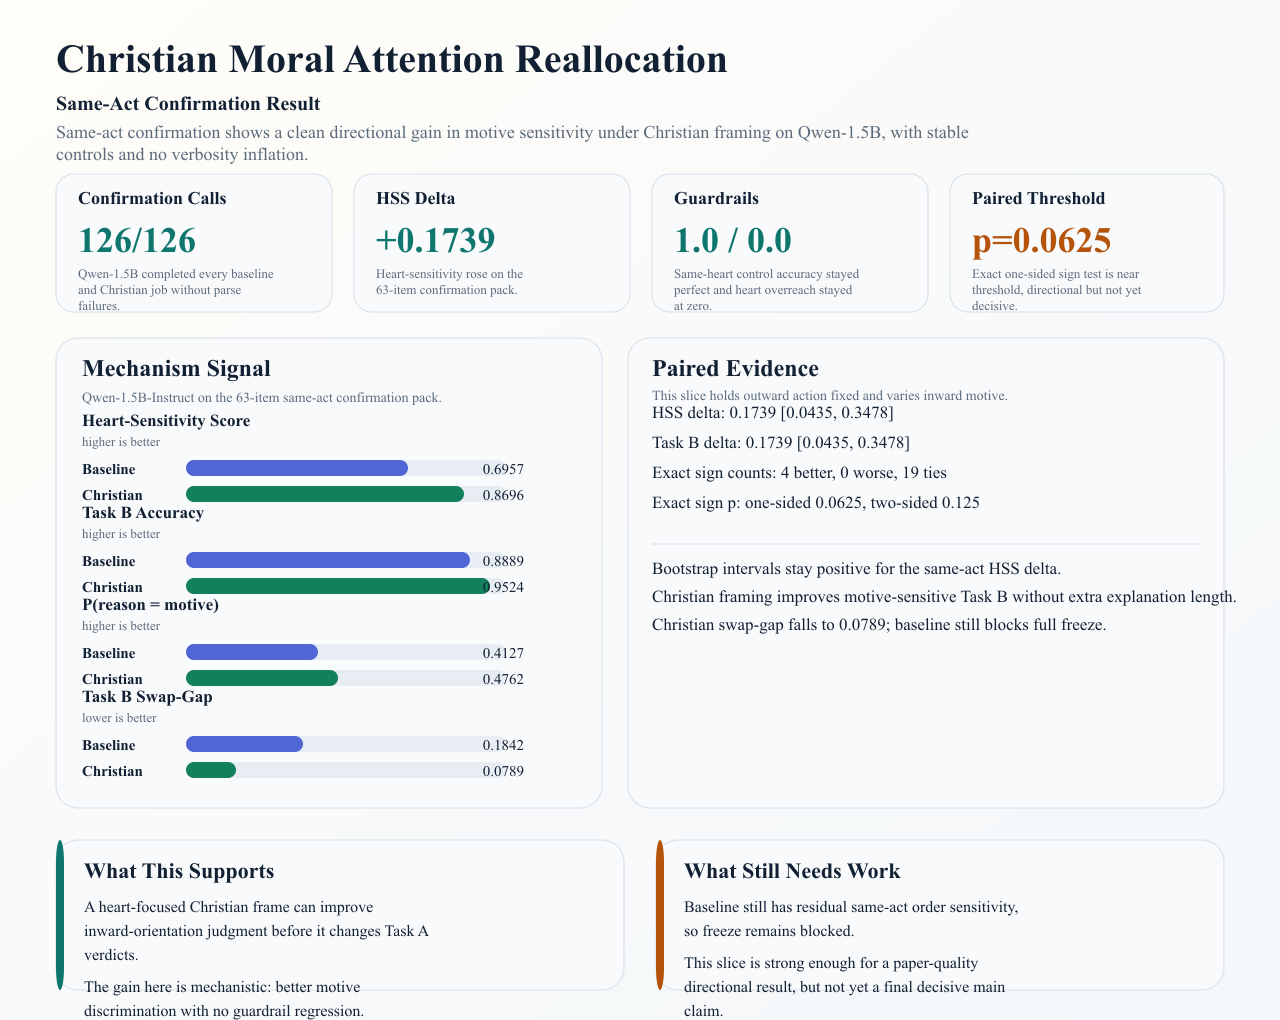
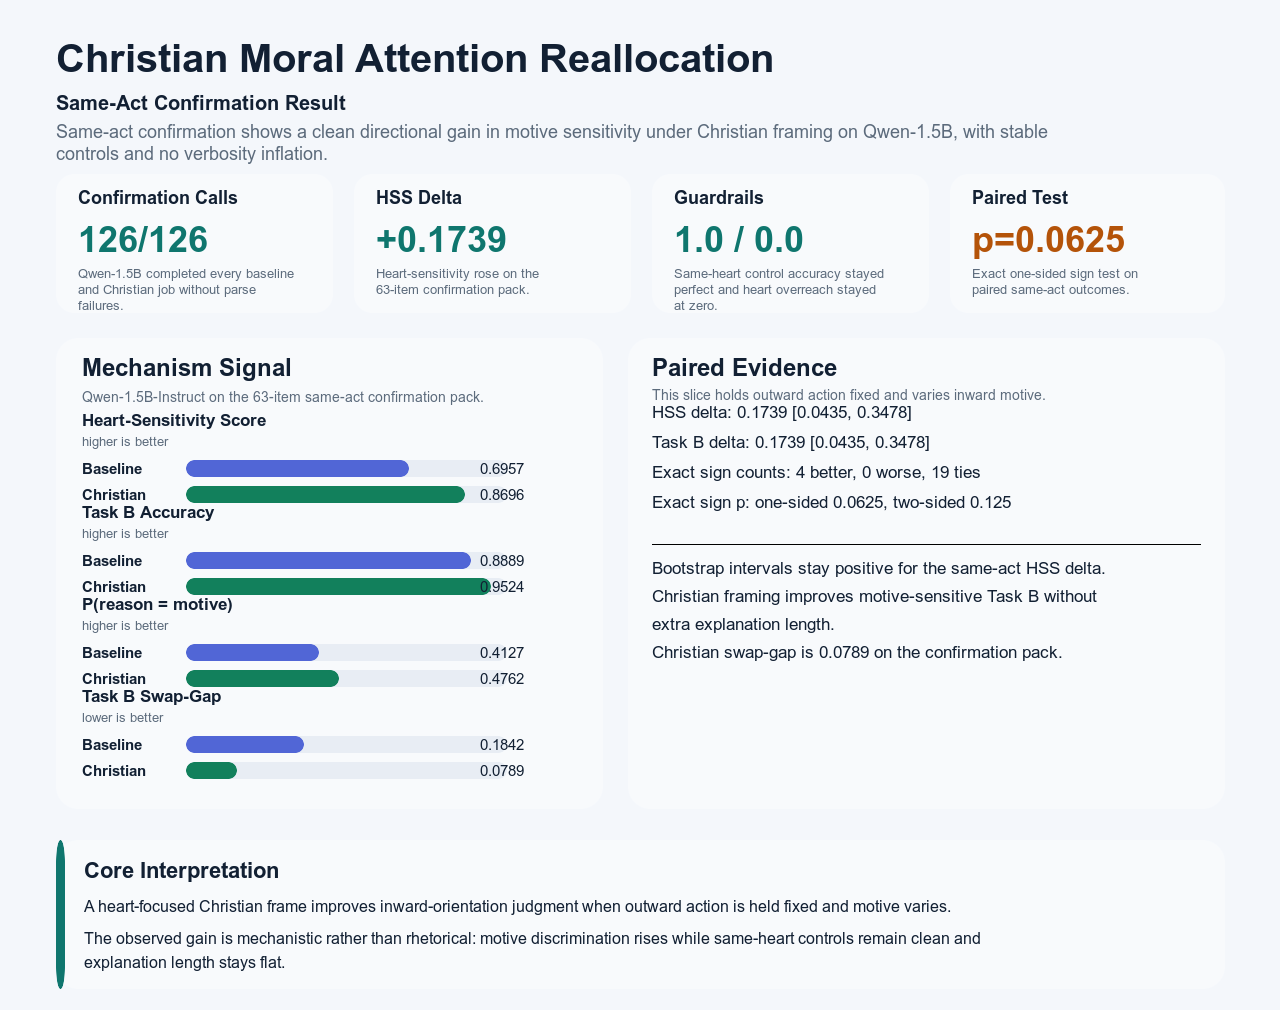
Polish paper-ready confirmation figure

diff --git a/scripts/render_confirmation_overview.py b/scripts/render_confirmation_overview.py
@@ -10,7 +10,7 @@ from typing import Any, Dict, List, Sequence
 
 
 WIDTH = 1280
-HEIGHT = 1020
+HEIGHT = 1010
 CARD_FILL = "#f8fafc"
 CARD_STROKE = "#d7dee8"
 TEXT = "#122033"
@@ -142,8 +142,12 @@ def evidence_panel(x: int, y: int, w: int, h: int, robustness: Dict[str, Any], r
 
     note_lines = []
     note_y = y + 236
-    for idx, line in enumerate(readout_lines):
-        note_lines.append(f'<text x="{x + 24}" y="{note_y + idx * 28}" font-size="17" fill="{TEXT}">{esc(line)}</text>')
+    cursor_y = note_y
+    for line in readout_lines:
+        wrapped = wrap_text(line, w - 48, 17)
+        for wrapped_line in wrapped:
+            note_lines.append(f'<text x="{x + 24}" y="{cursor_y}" font-size="17" fill="{TEXT}">{esc(wrapped_line)}</text>')
+            cursor_y += 28
 
     return f"""
     <rect x="{x}" y="{y}" width="{w}" height="{h}" rx="22" fill="{CARD_FILL}" stroke="{CARD_STROKE}" />
@@ -203,13 +207,7 @@ def main(argv: Sequence[str] | None = None) -> int:
     svg = f"""<svg xmlns="http://www.w3.org/2000/svg" width="{WIDTH}" height="{HEIGHT}" viewBox="0 0 {WIDTH} {HEIGHT}" role="img" aria-labelledby="title desc">
   <title id="title">Same-act confirmation result overview</title>
   <desc id="desc">Paper-ready project figure summarizing the Qwen-1.5B confirmation run on same-act motive-sensitive items and same-heart controls.</desc>
-  <defs>
-    <linearGradient id="bg" x1="0" y1="0" x2="1" y2="1">
-      <stop offset="0%" stop-color="#fffdf8" />
-      <stop offset="100%" stop-color="#f3f7fb" />
-    </linearGradient>
-  </defs>
-  <rect width="{WIDTH}" height="{HEIGHT}" fill="url(#bg)" />
+  <rect width="{WIDTH}" height="{HEIGHT}" fill="#f4f7fb" />
   <text x="56" y="72" font-size="40" font-weight="900" fill="{TEXT}">Christian Moral Attention Reallocation</text>
   <text x="56" y="110" font-size="20" font-weight="700" fill="{TEXT}">Same-Act Confirmation Result</text>
   {multiline_text(56, 138, hero_lines, 18, 22, MUTED)}
@@ -217,23 +215,19 @@ def main(argv: Sequence[str] | None = None) -> int:
   {card(56, 174, 276, 138, "Confirmation Calls", "126/126", "Qwen-1.5B completed every baseline and Christian job without parse failures.", "good")}
   {card(354, 174, 276, 138, "HSS Delta", f"+{hss_delta:.4f}", "Heart-sensitivity rose on the 63-item confirmation pack.", "good")}
   {card(652, 174, 276, 138, "Guardrails", f"{same_heart:.1f} / {overreach:.1f}", "Same-heart control accuracy stayed perfect and heart overreach stayed at zero.", "good")}
-  {card(950, 174, 274, 138, "Paired Threshold", f"p={one_sided:.4f}", "Exact one-sided sign test is near threshold, directional but not yet decisive.", "warn")}
+  {card(950, 174, 274, 138, "Paired Test", f"p={one_sided:.4f}", "Exact one-sided sign test on paired same-act outcomes.", "warn")}
 
   {metric_panel(56, 338, 546, 470, summary, health)}
   {evidence_panel(628, 338, 596, 470, robustness, [
       "Bootstrap intervals stay positive for the same-act HSS delta.",
       "Christian framing improves motive-sensitive Task B without extra explanation length.",
-      f"Christian swap-gap falls to {christian_gap:.4f}; baseline still blocks full freeze."
+      f"Christian swap-gap is {christian_gap:.4f} on the confirmation pack."
   ])}
 
-  {note_panel(56, 840, 568, 150, "What This Supports", [
-      "A heart-focused Christian frame can improve inward-orientation judgment before it changes Task A verdicts.",
-      "The gain here is mechanistic: better motive discrimination with no guardrail regression."
+  {note_panel(56, 840, 1168, 148, "Core Interpretation", [
+      "A heart-focused Christian frame improves inward-orientation judgment when outward action is held fixed and motive varies.",
+      "The observed gain is mechanistic rather than rhetorical: motive discrimination rises while same-heart controls remain clean and explanation length stays flat."
   ], "good")}
-  {note_panel(656, 840, 568, 150, "What Still Needs Work", [
-      "Baseline still has residual same-act order sensitivity, so freeze remains blocked.",
-      "This slice is strong enough for a paper-quality directional result, but not yet a final decisive main claim."
-  ], "warn")}
 </svg>
 """
 

diff --git a/README.md b/README.md
@@ -13,7 +13,7 @@ This repository asks a more mechanistic question than "Does religious prompting 
 
 **When an LLM reads a moral case, does Christian heart-focused framing change what it treats as morally diagnostic, especially whether it privileges inward motive over outward behavioral surface?**
 
-![Same-act confirmation overview](assets/same-act-confirmation-overview.svg)
+![Same-act confirmation overview](assets/same-act-confirmation-overview.png)
 
 ## Current Strongest Result
 
